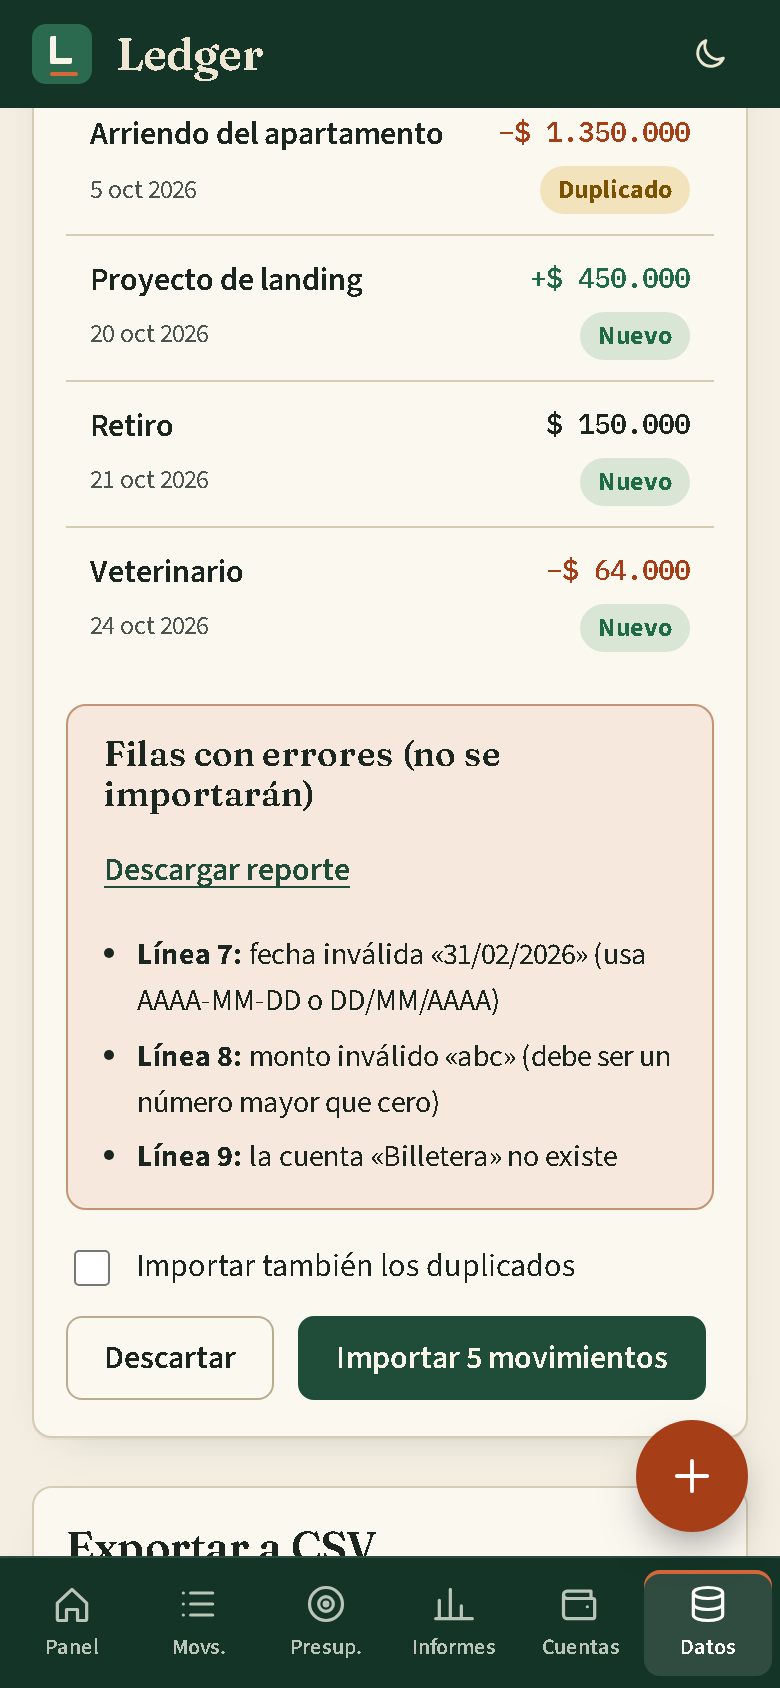
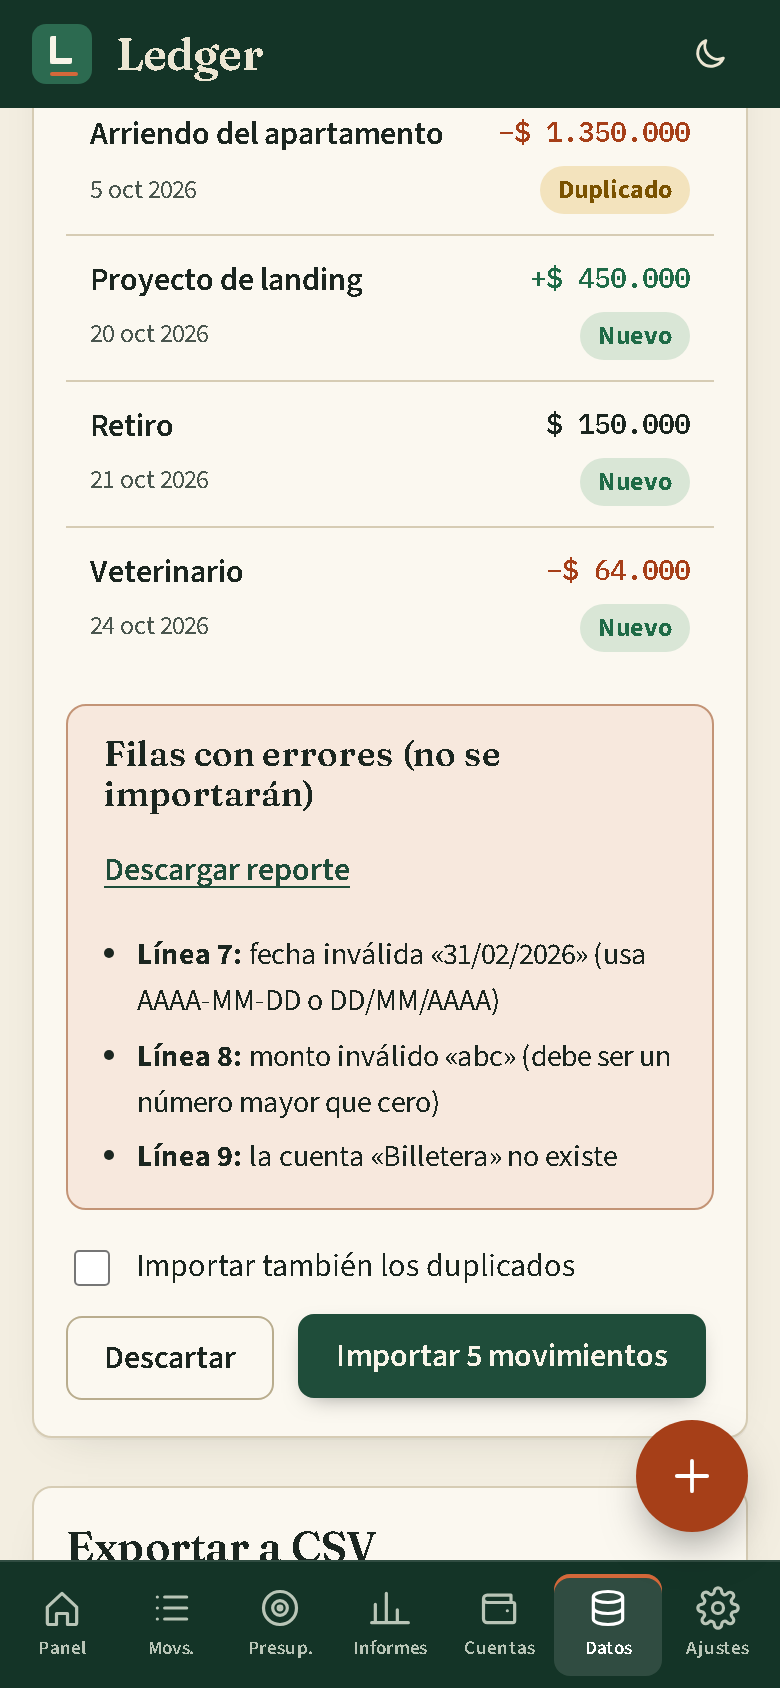
Pruebas e2e de bienvenida, ajustes, presupuestos, PWA sin conexión, capturas y documentación como producto

diff --git a/README.md b/README.md
@@ -1,18 +1,40 @@
 # Ledger
 
-Aplicación de finanzas personales que vive por completo en el navegador. Registras cuentas y movimientos, fijas presupuestos mensuales, importas tus extractos en CSV y ves a dónde se va el dinero, sin servidor, sin cuenta y sin enviar un solo dato a ningún lado.
+Aplicación web instalable de finanzas personales en pesos colombianos (COP). Registras cuentas y movimientos, fijas presupuestos mes a mes, importas tus extractos en CSV y ves a dónde se va el dinero. Funciona sin conexión, no necesita cuenta ni servidor y no envía un solo dato a ningún lado.
 
-Es un proyecto personal de portafolio, hecho para practicar arquitectura de software en el frontend: un dominio puro y testeable, una capa de almacenamiento intercambiable y una interfaz cuidada.
-
-- Demo estática prevista: <https://juanxd2201.github.io/portfolio/labs/ledger/>
-- Autor: Juan Esteban Olaya
+- Aplicación: <https://juanxd2201.github.io/portfolio/labs/ledger/>
+- Licencia MIT · © 2026 Juan Esteban Olaya Muñoz
 
 ![Panel en escritorio, tema claro](docs/screenshots/panel-escritorio-claro.png)
+
+## Primeros pasos
+
+Al abrir la aplicación por primera vez eliges cómo empezar:
+
+- **Empezar con una base vacía**: una cuenta de efectivo y las categorías básicas.
+- **Cargar datos de ejemplo**: seis meses de movimientos, tres cuentas y presupuestos para explorar la aplicación. Se pueden borrar cuando quieras desde «Ajustes».
+
+La elección queda guardada junto con tus datos; la bienvenida no vuelve a aparecer salvo que borres todos los datos.
+
+![Pantalla de bienvenida](docs/screenshots/bienvenida-escritorio-claro.png)
+
+## Instalarla como aplicación
+
+Ledger es una aplicación web progresiva (PWA):
+
+- **Chrome o Edge (escritorio y Android)**: usa el botón «Instalar aplicación» de la barra lateral o de «Ajustes», o el icono de instalación de la barra de direcciones.
+- **Safari (iPhone y iPad)**: Compartir → «Añadir a pantalla de inicio».
+- Tras la primera carga **todo el contenido queda en caché**: la aplicación abre y funciona sin internet, incluidas las fuentes.
+- Cuando se publica una versión nueva aparece el aviso **«Hay una versión nueva»** con un botón **Recargar**; nada se actualiza sin que lo decidas.
+
+Se sirve con rutas relativas y navegación por hash, así que funciona bajo cualquier subruta (por ejemplo `/portfolio/labs/ledger/`).
+
+![Ajustes sin conexión](docs/screenshots/ajustes-sin-conexion.png)
 
 ## Funcionalidades
 
 **Cuentas y movimientos**
-- Cuentas de efectivo, banco y tarjeta de crédito. El saldo siempre se calcula a partir de los movimientos; nunca se guarda un saldo "a mano".
+- Cuentas de efectivo, banco y tarjeta de crédito. El saldo siempre se calcula a partir de los movimientos; nunca se guarda un saldo a mano.
 - Gastos, ingresos y transferencias entre cuentas (el patrimonio total no cambia al transferir).
 - Crear, editar y eliminar, con aviso para deshacer la eliminación.
 - Categorías, etiquetas y notas.
@@ -22,46 +44,61 @@ Es un proyecto personal de portafolio, hecho para practicar arquitectura de soft
 - Reglas semanales o mensuales. Al abrir la app se generan los movimientos pendientes hasta hoy, sin duplicar nada.
 - Las mensuales conservan el día original: una regla del 31 cae el 28 (o 29) en febrero y vuelve al 31 en marzo.
 
-**Presupuestos**
-- Un límite mensual por categoría, con barra de progreso, aviso al 80 % y alerta al 100 %. Gastar exactamente el límite ya cuenta como "límite alcanzado".
+**Presupuestos por mes**
+- Un límite por categoría y por mes, con barra de progreso, aviso al 80 % y alerta al 100 %. Gastar exactamente el límite ya cuenta como «límite alcanzado».
+- Puedes ajustar un mes sin tocar los demás, **copiar los presupuestos al mes siguiente** como plantilla y quitar los ajustes de un mes para volver a la plantilla base.
 - Al guardar un gasto que cruza un umbral, la app te lo dice en el momento.
 
-**Informes**
-- Gasto por categoría (dona), flujo mensual de ingresos y gastos (barras), tendencia del patrimonio (línea con lectura por puntero y teclado) y comparación con el mes anterior.
+![Presupuestos](docs/screenshots/presupuestos-escritorio-claro.png)
 
-**Datos**
-- Importar CSV con validación fila a fila, vista previa, detección de duplicados, creación de categorías nuevas y reporte de errores descargable.
-- Exportar CSV (que la propia app puede reimportar) y respaldo JSON validado al restaurar.
-- Botones "Cargar datos de ejemplo" y "Empezar vacío". En la demo, el estado inicial ya viene lleno de datos de ejemplo.
+**Informes**
+- Gasto por categoría (dona), flujo de los últimos seis meses (barras), tendencia del patrimonio (línea con lectura por puntero y teclado) y comparación con el mes anterior.
+- **Resumen anual**: ingresos, gastos, balance y mes de mayor gasto de cualquier año, con gráfico de doce meses.
+
+**Datos y respaldo**
+- Importar CSV con validación fila a fila, vista previa, detección de duplicados, categorías nuevas y reporte de errores descargable.
+- Exportar CSV (que la propia app puede reimportar) y respaldo JSON completo, validado al restaurar.
+
+**Ajustes**
+- Nombre del titular, moneda fija (COP), exportar respaldo, versión de la aplicación y estado de instalación y de uso sin conexión.
+- **Borrar todos los datos**: exige escribir `BORRAR`, ofrece descargar un respaldo antes y deja el navegador limpio.
 
 **Experiencia**
-- Moneda COP con `Intl.NumberFormat`, fechas en es-CO, tema claro y oscuro (respeta la preferencia del sistema).
-- Atajos: `N` nuevo movimiento, `/` buscar, `G` y una letra para navegar, `T` tema, `?` ayuda.
-- Estados vacíos, de carga y de error pensados uno por uno (incluido el caso de datos guardados corruptos).
-- Accesibilidad: navegación completa por teclado, enlace para saltar al contenido, diálogos nativos con foco atrapado, roles ARIA, foco visible, contraste calculado de al menos 4,5:1 en los pares de color principales de ambos temas y `prefers-reduced-motion`.
-- Responsive: barra lateral en escritorio y navegación inferior con botón flotante en móvil; la tabla de movimientos se convierte en lista de tarjetas.
+- Tema claro y oscuro (respeta la preferencia del sistema).
+- Atajos: `N` nuevo movimiento, `/` buscar, `G` y una letra para navegar (incluye `G` `A` para ajustes), `T` tema, `?` ayuda.
+- Estados vacíos, de carga y de error pensados uno por uno, incluido el caso de datos guardados corruptos.
+- Accesibilidad: navegación completa por teclado, enlace para saltar al contenido, diálogos nativos con foco atrapado, roles ARIA, foco visible, contraste de al menos 4,5:1 en los pares de color principales de ambos temas y `prefers-reduced-motion`.
+- Responsive: barra lateral en escritorio y navegación inferior con botón flotante en móvil.
+
+## Privacidad y alcance
+
+- **Todos los datos quedan en tu navegador** (`localStorage`). No hay servidor, cuentas, analítica ni peticiones de red con tu información.
+- Un solo dispositivo: no hay sincronización. Para mover tus datos usa el respaldo JSON.
+- Si borras los datos del sitio desde el navegador, pierdes el libro; exporta un respaldo de vez en cuando. La aplicación pide al navegador almacenamiento persistente para reducir ese riesgo.
+- Moneda única (COP), sin decimales. Ledger es una herramienta de registro personal, no asesoría financiera ni contable.
 
 ## Capturas
 
-| Movimientos | Presupuestos |
+| Movimientos | Informes (con resumen anual) |
 | --- | --- |
-| ![Movimientos](docs/screenshots/movimientos-escritorio-claro.png) | ![Presupuestos](docs/screenshots/presupuestos-escritorio-claro.png) |
+| ![Movimientos](docs/screenshots/movimientos-escritorio-claro.png) | ![Informes](docs/screenshots/informes-escritorio-claro.png) |
 
-| Informes | Importación de CSV |
+| Importación de CSV | Ajustes |
 | --- | --- |
-| ![Informes](docs/screenshots/informes-escritorio-claro.png) | ![Importación](docs/screenshots/importacion-escritorio-claro.png) |
+| ![Importación](docs/screenshots/importacion-escritorio-claro.png) | ![Ajustes](docs/screenshots/ajustes-escritorio-claro.png) |
 
-Tema oscuro: [panel](docs/screenshots/panel-escritorio-oscuro.png), [movimientos](docs/screenshots/movimientos-escritorio-oscuro.png), [presupuestos](docs/screenshots/presupuestos-escritorio-oscuro.png), [informes](docs/screenshots/informes-escritorio-oscuro.png), [importación](docs/screenshots/importacion-escritorio-oscuro.png).
-Móvil (390 × 844): [panel](docs/screenshots/panel-movil.png), [movimientos](docs/screenshots/movimientos-movil.png), [presupuestos](docs/screenshots/presupuestos-movil.png), [informes](docs/screenshots/informes-movil.png), [importación](docs/screenshots/importacion-movil.png).
+Tema oscuro: [panel](docs/screenshots/panel-escritorio-oscuro.png), [movimientos](docs/screenshots/movimientos-escritorio-oscuro.png), [presupuestos](docs/screenshots/presupuestos-escritorio-oscuro.png), [informes](docs/screenshots/informes-escritorio-oscuro.png), [ajustes](docs/screenshots/ajustes-escritorio-oscuro.png).
+Móvil (390 × 844): [bienvenida](docs/screenshots/bienvenida-movil.png), [panel](docs/screenshots/panel-movil.png), [movimientos](docs/screenshots/movimientos-movil.png), [presupuestos](docs/screenshots/presupuestos-movil.png), [informes](docs/screenshots/informes-movil.png), [ajustes](docs/screenshots/ajustes-movil.png).
 
 ## Stack
 
 - Vite + React 19 + TypeScript en modo estricto (`noUncheckedIndexedAccess` incluido).
 - Sin backend: sitio estático, persistencia en `localStorage` con esquema versionado y migración.
+- PWA propia: manifiesto, iconos PNG generados desde un SVG, y un service worker que `pwa-plugin.ts` genera en el build con el listado de archivos y un hash de versión.
 - Gráficos en SVG propio (sin librerías de gráficos).
 - Tipografías autoalojadas con Fontsource: Fraunces (titulares), Source Sans 3 (texto) e IBM Plex Mono (cifras tabulares).
 - Jest + ts-jest para el dominio; Playwright (`playwright-core` con el Chrome instalado) para e2e.
-- Dependencias de ejecución: `react`, `react-dom` y las tres fuentes. Nada más.
+- Dependencias de ejecución: `react`, `react-dom` y las tres fuentes.
 
 ## Instalación y scripts
 
@@ -70,12 +107,13 @@ Requiere Node 20 o superior (desarrollado y probado con Node 25).
 ```bash
 npm install
 npm run dev          # servidor de desarrollo
-npm run build        # comprueba tipos y genera dist/
+npm run build        # comprueba tipos y genera dist/ (incluye sw.js)
 npm run preview      # sirve dist/ en http://127.0.0.1:4173
 npm run typecheck    # tsc --noEmit
 npm test             # pruebas de dominio con Jest
 npm run test:e2e     # e2e con Playwright sobre dist/ (requiere build previo)
 npm run capturas     # regenera docs/screenshots/ desde el build
+npm run iconos       # regenera los iconos PNG de public/icons
 ```
 
 Las pruebas e2e y las capturas usan Chrome ya instalado (`C:/Program Files/Google/Chrome/Application/chrome.exe` en Windows); `playwright-core` no descarga navegadores. Si tu Chrome está en otra ruta, ajusta `CHROME_PATHS` en `e2e/lib.mjs`.
@@ -84,15 +122,18 @@ Las pruebas e2e y las capturas usan Chrome ya instalado (`C:/Program Files/Googl
 
 ```
 src/
-  domain/        Tipos y funciones puras: saldos, presupuestos, recurrencias,
+  domain/        Tipos y funciones puras: saldos, presupuestos por mes, recurrencias,
                  agregaciones, filtros, CSV, esquema/migración, datos de ejemplo
   storage/       Interfaz LedgerRepository e implementación sobre localStorage
+  pwa.ts         Registro del service worker, aviso de actualización e instalación
   ui/
-    components/  Modal, formulario de movimientos, tabla, piezas comunes
+    components/  Modal, formulario de movimientos, tabla, controles de la PWA
     charts/      Dona, barras y línea de tendencia en SVG
-    pages/       Panel, Movimientos, Presupuestos, Informes, Cuentas, Datos
+    pages/       Bienvenida, Panel, Movimientos, Presupuestos, Informes, Cuentas, Datos, Ajustes
     store.tsx    Estado, persistencia y acciones
   test/          Pruebas Jest del dominio y del repositorio
+pwa-plugin.ts    Plugin de Vite que genera sw.js
+scripts/         Generación de iconos
 e2e/             Pruebas Playwright y script de capturas
 docs/            ARQUITECTURA.md y capturas
 ```
@@ -101,14 +142,15 @@ La explicación completa está en [docs/ARQUITECTURA.md](docs/ARQUITECTURA.md).
 
 ## Decisiones técnicas
 
-- **Dinero en enteros.** Los montos son pesos enteros; el COP no usa centavos en la práctica y así se evitan errores de coma flotante. Las comparaciones de presupuesto usan aritmética entera (`gastado * 100 >= límite * 80`).
-- **Saldos derivados.** Una cuenta guarda solo su saldo inicial. El saldo actual sale de recorrer los movimientos, de modo que editar o borrar un movimiento nunca deja saldos inconsistentes.
-- **Fechas como texto ISO.** Los movimientos guardan `AAAA-MM-DD`, sin hora ni zona. Evita el clásico desfase de un día por zona horaria y permite comparar fechas como cadenas.
-- **Recurrencias idempotentes.** Cada movimiento generado tiene un identificador determinista (`rec-<regla>-<fecha>`) y la regla recuerda hasta dónde generó. Abrir la app mil veces produce el mismo resultado.
-- **Esquema versionado.** Lo guardado lleva `schemaVersion`. Al leer se migra (hoy v1 → v2) y se valida estructura e integridad referencial. Si los datos están corruptos no se tocan: la app ofrece descargar una copia antes de reiniciar.
-- **Navegación por hash.** `#/movimientos` funciona desde cualquier subruta de GitHub Pages sin configuración de servidor, y `base: './'` hace que los recursos carguen con rutas relativas.
-- **CSV defensivo.** Parser propio con comillas, saltos de línea internos, separador `,` `;` o tabulación y BOM. La exportación neutraliza celdas que empiezan por `=`, `+` o `@` para evitar inyección de fórmulas al abrir el archivo en una hoja de cálculo.
-- **Sin datos reales en el código.** No hay `.env`, claves ni llamadas de red; las fuentes van empaquetadas.
+- **Dinero en enteros.** Los montos son pesos enteros; el COP no usa centavos en la práctica y así se evitan errores de coma flotante. Las comparaciones de presupuesto usan aritmética entera.
+- **Saldos derivados.** Una cuenta guarda solo su saldo inicial; el saldo actual sale de recorrer los movimientos.
+- **Fechas como texto ISO.** `AAAA-MM-DD`, sin hora ni zona, para evitar desfases de un día.
+- **Recurrencias idempotentes.** Cada movimiento generado tiene un identificador determinista y la regla recuerda hasta dónde generó.
+- **Presupuestos con plantilla.** Una entrada sin mes es la plantilla base; una entrada con mes la reemplaza solo en ese mes (con límite 0 se oculta la categoría ese mes).
+- **Esquema versionado.** Lo guardado lleva `schemaVersion`; al leer se migra y se valida estructura e integridad referencial. Si los datos están corruptos no se tocan: la app ofrece descargar una copia.
+- **Service worker versionado por contenido.** El hash de todos los archivos cambia el nombre de la caché; la versión nueva espera a que pulses «Recargar» y las cachés viejas se eliminan al activarla.
+- **CSV defensivo.** Parser propio con comillas, saltos de línea internos, separadores `,` `;` o tabulación y BOM; la exportación neutraliza celdas que empiezan por `=`, `+` o `@`.
+- **Sin secretos.** No hay `.env`, claves ni llamadas de red; las fuentes van empaquetadas.
 
 ## Pruebas
 
@@ -117,16 +159,10 @@ La explicación completa está en [docs/ARQUITECTURA.md](docs/ARQUITECTURA.md).
 | Tipo | Resultado |
 | --- | --- |
 | Verificación de tipos (`npx tsc --noEmit`) | sin errores |
-| Jest, dominio y repositorio | 93 pruebas en 6 archivos, todas pasan |
-| Playwright e2e sobre el build de producción | 22 pruebas, todas pasan |
-| `npm run build` | `dist/` de 665 KB (JS 315 KB, 96 KB comprimido) |
+| Jest, dominio y repositorio | 104 pruebas en 7 archivos, todas pasan |
+| Playwright e2e sobre el build de producción | 33 pruebas, todas pasan |
+| `npm run build` | `dist/` generado con `sw.js` y precaché de todos los archivos |
 
-Las pruebas de dominio cubren, entre otras cosas: años bisiestos y fin de mes, recurrencias del día 31, transferencias y pago de tarjeta, presupuesto justo por debajo del 80 %, en el 80 % y en el 100 %, CSV con comillas y saltos de línea, comillas sin cerrar, fechas imposibles, duplicados dentro del archivo y contra lo existente, ida y vuelta del respaldo y migración v1 → v2.
+Las pruebas de dominio cubren años bisiestos y fin de mes, recurrencias del día 31, transferencias, umbrales del presupuesto, presupuestos por mes (ajuste, ocultar, copiar, restablecer), CSV con casos límite, ida y vuelta del respaldo y migración v1 → v2.
 
-Los e2e recorren flujos reales: crear, editar y eliminar con deshacer, validaciones del formulario, transferencias, alerta de presupuesto al superar el límite, filtros y paginación, importar CSV (vista previa, errores y duplicados), exportar, respaldo y restauración, tema oscuro, persistencia tras recargar, recurrentes, atajos, foco, informes, ausencia de desbordes en móvil, datos corruptos y migración de datos antiguos. Todas verifican además que la consola no registre errores.
-
-## Demo estática
-
-`npm run build` deja en `dist/` un sitio estático listo para cualquier alojamiento. En GitHub Pages se publicará en `https://juanxd2201.github.io/portfolio/labs/ledger/`. Como todo usa rutas relativas y navegación por hash, no necesita reglas de reescritura.
-
-Los datos de cada persona quedan solo en su navegador. Este es un proyecto demostrativo, no un producto financiero.
+Los e2e recorren flujos reales: bienvenida y decisión recordada, crear/editar/eliminar con deshacer, validaciones, transferencias, alertas de presupuesto, filtros, importar y exportar, respaldo y restauración, ajustes y borrado total con confirmación, presupuestos por mes, informe anual, manifiesto e iconos, **uso sin conexión** (recarga y navegación con la red cortada, incluso guardando un movimiento), **actualización con aviso «Hay una versión nueva»**, botón de instalación, atajos, foco, ausencia de desbordes en móvil, datos corruptos y migración. Todas verifican además que la consola no registre errores.

diff --git a/docs/ARQUITECTURA.md b/docs/ARQUITECTURA.md
@@ -61,7 +61,7 @@ El respaldo JSON usa el mismo sobre más `app: "ledger"` y `exportedAt`, por lo 
 - `store.tsx` contiene `LedgerProvider`. Carga desde el repositorio (estados de carga y de error), aplica las recurrentes, guarda tras cada cambio y expone acciones (`addTransaction`, `importData`, `replaceAll`…). Los componentes no tocan el repositorio.
 - `toast.tsx` ofrece avisos con acción opcional (por ejemplo, "Deshacer").
 - `hooks.ts` resuelve la navegación por hash, el tema y la detección de campos de texto para los atajos.
-- `pages/` tiene una pantalla por ruta: Panel, Movimientos, Presupuestos, Informes, Cuentas y Datos.
+- `pages/` tiene una pantalla por ruta: Bienvenida (primera ejecución), Panel, Movimientos, Presupuestos, Informes, Cuentas, Datos y Ajustes.
 - `components/` agrupa lo compartido: `Modal` (elemento `<dialog>` nativo, con foco atrapado y cierre con Esc), `TransactionForm`, `TxTable` y piezas como la barra de progreso o el selector de mes.
 - `charts/` dibuja dona, barras y línea en SVG. Miden el ancho real del contenedor para que los textos sean legibles en móvil, llevan `role="img"` con una descripción completa y títulos nativos en cada elemento.
 
@@ -69,10 +69,25 @@ El respaldo JSON usa el mismo sobre más `app: "ledger"` y `exportedAt`, por lo 
 
 Papel marfil, verde bosque y terracota. Los titulares usan Fraunces; el texto, Source Sans 3; las cifras, IBM Plex Mono con números tabulares. La referencia es el libro contable: filas con reglas finas y doble raya bajo cada total. Los ingresos van en verde, los gastos en terracota y las alertas en ámbar, siempre acompañadas de texto o icono para no depender solo del color. El tema oscuro redefine las mismas variables CSS (`:root[data-theme='oscuro']`). La única animación no solicitada es el llenado de las barras de presupuesto, y se desactiva con `prefers-reduced-motion`.
 
+## Aplicación instalable (PWA)
+
+- `public/manifest.webmanifest` declara nombre, colores, `display: standalone`, `start_url` y `scope` relativos (`./`) e iconos 192, 512 y maskable. Los PNG se generan con `scripts/iconos.mjs` desde SVG propios.
+- `pwa-plugin.ts` es un plugin de Vite que, al terminar el build, recorre `dist/`, calcula un hash del contenido y escribe `sw.js` con la lista de archivos a precachear (rutas relativas) y una caché con ese hash.
+- `sw.js` sirve `index.html` para toda navegación y responde los demás archivos desde la caché (`ignoreVary` evita fallos por cabeceras `Vary` del alojamiento). La versión nueva queda en espera: `src/pwa.ts` la detecta, la interfaz muestra «Hay una versión nueva» y solo al pulsar Recargar se activa (`SKIP_WAITING`) y se recarga.
+- `src/pwa.ts` expone el estado (actualización lista, instalable, instalada, lista sin conexión) a la interfaz y gestiona el evento `beforeinstallprompt` del botón «Instalar aplicación».
+
+## Primera ejecución y borrado
+
+Si el repositorio devuelve `empty`, `LedgerProvider` muestra `Welcome` en lugar de crear datos: las dos opciones (base vacía o datos de ejemplo) guardan el libro y, con él, la decisión. `wipeAll()` borra la clave de datos y los ajustes y vuelve a la bienvenida.
+
+## Presupuestos por mes
+
+`Budget.month` opcional: sin mes es la plantilla base; con mes reemplaza la base solo ese mes y un límite 0 oculta la categoría. `effectiveBudgets`, `setMonthBudget`, `copyBudgetsToMonth` y `resetMonthBudgets` (en `domain/budgets.ts`) son funciones puras con pruebas propias.
+
 ## Pruebas
 
-- **Jest** (`src/test`): 93 pruebas sobre el dominio y el repositorio, en entorno Node, sin DOM.
-- **Playwright** (`e2e`): 22 pruebas sobre `dist/` servido con `vite preview`, usando Chrome ya instalado a través de `playwright-core`. `e2e/capturas.mjs` genera las imágenes de `docs/screenshots` con el mismo build.
+- **Jest** (`src/test`): 104 pruebas sobre el dominio y el repositorio, en entorno Node, sin DOM.
+- **Playwright** (`e2e`): 33 pruebas sobre `dist/` servido con `vite preview`, usando Chrome ya instalado a través de `playwright-core`. `e2e/capturas.mjs` genera las imágenes de `docs/screenshots` con el mismo build.
 
 ## Límites conocidos
 
